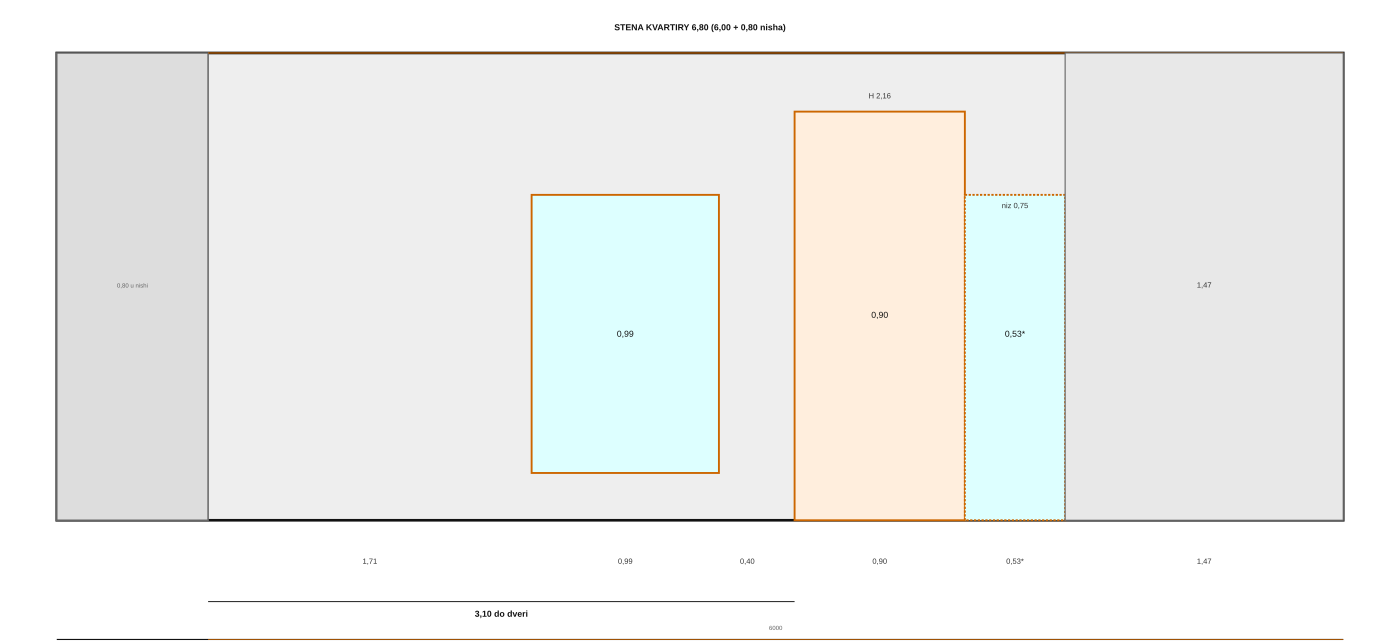
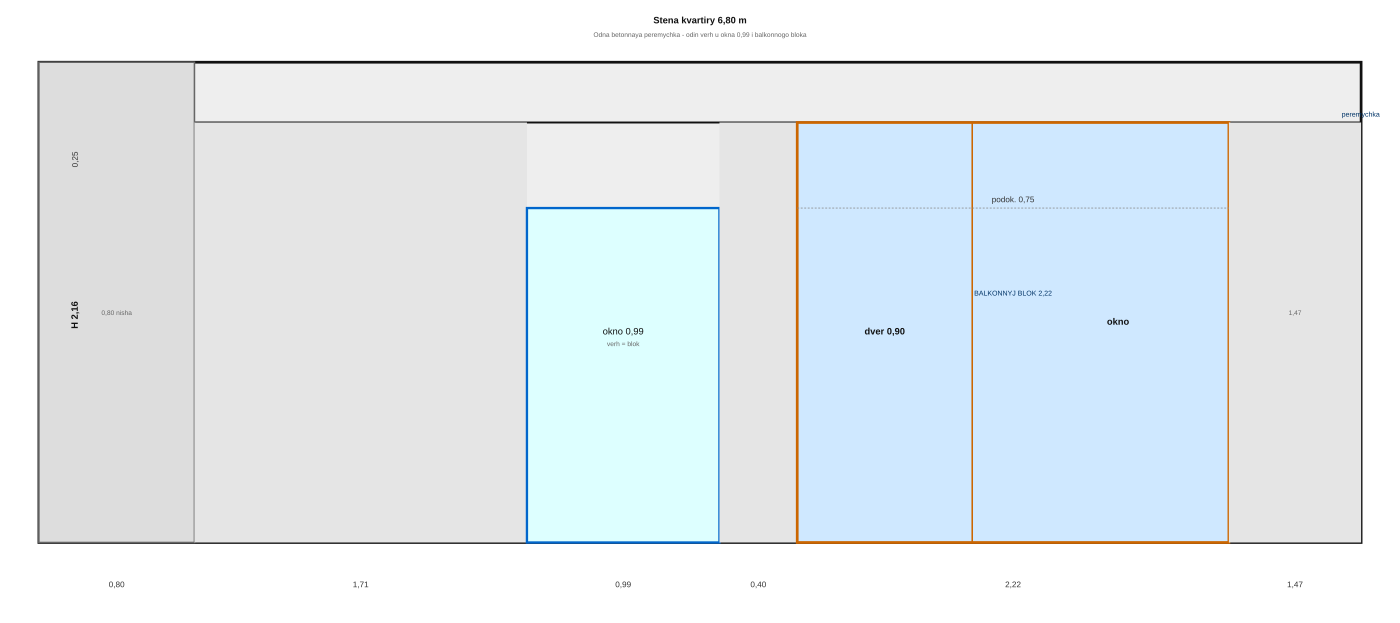
Fix apartment wall drawing: one lintel, balcony block 2.22m

diff --git a/balcony-loggia/preview.html b/balcony-loggia/preview.html
@@ -5,37 +5,22 @@
   <meta name="viewport" content="width=device-width, initial-scale=1">
   <title>Лоджия — чертежи</title>
   <style>
-    body { font-family: system-ui, sans-serif; margin: 16px; background: #1a1a1a; color: #eee; }
-    h1 { font-size: 1.25rem; }
-    h2 { font-size: 1rem; margin-top: 1.5rem; color: #9cf; }
-    img, object { width: 100%; height: auto; background: #fff; border-radius: 8px; margin: 8px 0; }
-    .card { background: #2a2a2a; padding: 12px; border-radius: 12px; margin-bottom: 16px; }
-    pre { white-space: pre-wrap; font-size: 14px; background: #111; padding: 12px; border-radius: 8px; }
-    a { color: #6cf; }
+    body { font-family: system-ui,sans-serif; margin: 16px; background: #111; color: #eee; }
+    h1 { font-size: 1.2rem; }
+    h2 { font-size: 1rem; color: #9cf; margin-top: 1.2rem; }
+    img { width: 100%; background: #fff; border-radius: 8px; margin: 8px 0; }
+    pre { background: #222; padding: 12px; border-radius: 8px; font-size: 14px; white-space: pre-wrap; }
   </style>
 </head>
 <body>
-  <h1>Лоджия 6×1 — размеры</h1>
-  <div class="card">
-    <pre>6×1×2,47 | окна 6 м, подоконник 0,89
-Стена кв: 6,8 = 6,0 + 0,8 (ниша шкафа)
-6,0: 1,71 | ок 0,99 | 0,40 | дв 0,90 | ок 2,00 | 1,47
-До двери: 3,10 | ниша 0,8×0,8 в торце</pre>
-    <p style="font-size:14px;color:#faa">На 6,0 м сумма сходится с окном 0,53 м; на эскизе у окна ~2,0 м — перемерить ширину.</p>
-  </div>
-
+  <h1>Лоджия — исправлено</h1>
+  <pre>Стена кв 6,8: 0,8 niша | 1,71 | ок 0,99 | 0,4 | БЛОК 2,22 (дверь 0,9 внутри) | 1,47
+Одна перемычка — один верх у 0,99 и блока, H 2,16</pre>
+  <h2>Стена квартиры</h2>
+  <img src="elevation-apartment-6800.png" alt="Развертка">
   <h2>План</h2>
-  <div class="card"><img src="plan-top.png" alt="План"></div>
-
-  <h2>Стена квартиры 6,8 м</h2>
-  <div class="card"><img src="elevation-apartment-6800.png" alt="Стена квартиры"></div>
-
-  <h2>Окна 6 м</h2>
-  <div class="card"><img src="elevation-front-windows.png" alt="Окна"></div>
-
-  <h2>Схема «фото ↔ план»</h2>
-  <div class="card"><img src="section-layout.png" alt="Схема"></div>
-
-  <p style="font-size:13px"><a href="RAZMERY.md">RAZMERY.md</a> · SVG в той же папке</p>
+  <img src="plan-top.png" alt="План">
+  <h2>Окна наружу</h2>
+  <img src="elevation-front-windows.png" alt="Окна">
 </body>
 </html>

diff --git a/balcony-loggia/RAZMERY.md b/balcony-loggia/RAZMERY.md
@@ -1,88 +1,59 @@
-# Лоджия — рабочие размеры (актуальная версия)
+# Лоджия — размеры (исправлено)
 
-Единицы: **метры**. Согласовано с эскизом на OSB и двумя фото.
+## Логика стены квартиры (как на фото)
 
----
+Над **окном 0,99** и **балконным блоком** одна **бетонная перемычка** → **одна линия верха** у всех проёмов.
 
-## Ориентация (как на фото)
-
-| Направление | Что это |
-|-------------|---------|
-| Вдоль **6 м** | Балконный блок (ПВХ), подоконник **0,89** |
-| **1 м** | Глубина прохода (окна ↔ стена квартиры) |
-| **Вдаль от комнаты** | Торец с **нишей шкафа** (углубление в стене **0,8 × 0,8**) |
-| **Справа** (на фото №2) | **Стена квартиры**: дверь + окна, развёртка **6,8 м** |
+| Элемент | Что это |
+|---------|---------|
+| **Балконный блок** | **Дверь + окно** одна конструкция, **общая высота** |
+| **Окно 0,99** | Отдельное, но **верх на той же отметке**, что и блок |
+| **Не «три разных окна»** | Нет отдельного «большого окна 0,53» — это была ошибка чертежа |
 
 ---
 
 ## Габариты
 
-| Параметр | Значение |
-|----------|----------|
-| План пола (основной прямоугольник) | **6,00 × 1,00** |
+| | м |
+|---|---|
+| План пола | **6,00 × 1,00** |
 | Высота | **2,47** |
-| Подоконник (перед, до низа остекления) | **0,89** |
-| Ниша шкафа (встроенная, в углублении) | **0,80 × 0,80** (дверь шкафа не на чертеже) |
-| **Стена квартиры (развёртка)** | **6,80** = **6,00** + **0,80** (участок у ниши) |
+| Остекление (перед) | **6,00**, подоконник **0,89** |
+| Ниша шкафа | **0,80 × 0,80** (углубление в торце) |
+| **Стена квартиры** | **6,80** = **6,00** + **0,80** (участок у ниши) |
 
 ---
 
-## Стена квартиры 6,80 м
+## Развёртка стены квартиры **6,80** (слева → направо)
 
-### Участок **6,00** (проёмы), ось **← от комнаты к торцу** или наоборот — замерьте привязку «3,10 до двери» от того угла, откуда мерили на эскизе.
+| № | Элемент | Ширина | По высоте |
+|---|---------|--------|-----------|
+| 1 | У ниши шкафа (глухая) | **0,80** | до перемычки |
+| 2 | Стена | **1,71** | *3,10 − 0,99 − 0,40 до блока* |
+| 3 | Окно | **0,99** | **верх = как у блока**; до потолка **0,25** |
+| 4 | Простенок | **0,40** | |
+| 5 | **Балконный блок** | **2,22** | **вся ширина блока**; внутри **дверь 0,90**; высота проёма **2,16**; подоконник блока **0,75** |
+| 6 | Стена | **1,47** | |
 
-| № | Элемент | Ширина | Высота / прочее |
-|---|---------|--------|-----------------|
-| A | Стена слева от малого окна | **1,71** | *выведено: 3,10 − 0,99 − 0,40* |
-| B | Окно в квартиру | **0,99** | верх: **0,25** до потолка (2,47 − 0,25 = **2,22**) |
-| C | Простенок | **0,40** | |
-| D | Дверь | **0,90** | **2,16** |
-| E | Большое окно | **0,53** * | *если **1,47** и остальное точно — сходится с **6,00***; на эскизе у окна **~2,00** — **перемерить** |
-| F | Простенок справа | **1,47** | |
-| | **Контрольная сумма** | **1,71+0,99+0,40+0,90+0,53+1,47 = 6,00** | ✓ |
+**Проверка:** 0,80 + 1,71 + 0,99 + 0,40 + 2,22 + 1,47 = **6,79** (≈ **6,80** с округлением на эскизе).
 
-**Примечание:** на эскизе **2,00 / 2,22** у крупного проёма — **2,22** скорее высота (**2,47 − 0,25**). Если ширина окна **2,00**, правый простенок **1,47** или левые размеры нужно уточнить замером.
-
-**Привязка с эскиза:** до **начала двери** — **3,10** (1,71 + 0,99 + 0,40 = 3,10 ✓).
-
-### Участок **+0,80** (ниша шкафа)
-
-| Элемент | Ширина |
-|---------|--------|
-| Стена в зоне встроенной ниши (без проёма) | **0,80** |
-
-**Итого по стене квартиры для обшивки:** **6,80**.
+**До начала двери блока:** 0,80 + 3,10 = **3,90** от левого края развёртки (или **3,10** от начала участка 6,00 после ниши).
 
 ---
 
-## Перед — балконный блок
+## Перед (балконный блок наружу)
 
-| Параметр | Значение |
-|----------|----------|
+| | м |
+|---|---|
 | Длина | **6,00** |
 | Подоконник | **0,89** |
-| Высота помещения | **2,47** |
-| Ориентир высоты остекления | **1,58** (2,47 − 0,89) |
 
 ---
 
-## Сводка для телефона
+## Заметка в телефон
 
 ```
-6×1×2,47 | окна 6м, подоконник 0,89
-Стена кв: 6,8 = 6,0 + 0,8 (ниша шкафа)
-6,0: 1,71 | ок0,99 | 0,40 | дв0,90 h2,16 | ок2,00 | 1,47  [сумму проверить]
-До двери: 3,10 | ниша 0,8×0,8 в торце
+6×1×2,47 | наружу 6м, подок. 0,89
+Стена кв 6,8: 0,8 niша | 1,71 | ок0,99 | 0,4 | БЛОК 2,22 (dv0,9) | 1,47
+Одна перемычка, верх проёмов 2,16
 ```
-
----
-
-## Файлы для проверки
-
-| Файл | Для чего |
-|------|----------|
-| **preview.html** | Открыть в браузере телефона — все картинки |
-| **plan-top.png** | План |
-| **elevation-apartment-6800.png** | Стена квартиры 6,8 |
-| **elevation-front-windows.png** | Окна 6 м |
-| **section-layout.png** | Схема «фото ↔ план» |
